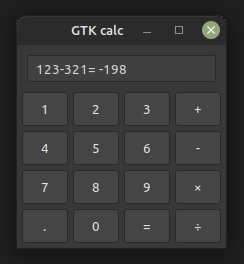
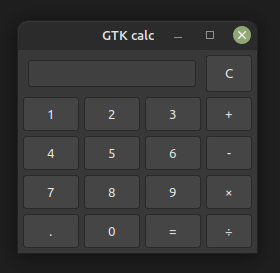
clear button

diff --git a/src/gui.rs b/src/gui.rs
@@ -41,7 +41,7 @@ pub fn build_ui(application: &gtk::Application) {
         .margin_end(margin)
         .margin_bottom(margin)
         .build();
-    grid.attach(&entry, 0, 0, 4 ,1);
+    grid.attach(&entry, 0, 0, 3 ,1);
 
     // --> CREATE NUM BUTTONS
     let button_1 = gtk::Button::with_label("1");
@@ -136,6 +136,7 @@ pub fn build_ui(application: &gtk::Application) {
     let div_button   = gtk::Button::with_label("\u{00F7}");
     let equals_bttn  = gtk::Button::with_label("=");
     let dot_button   = gtk::Button::with_label("."); // FIX IT
+    let clear_button = gtk::Button::with_label("C");
 
     // --> CONNECT FUNCTION TO OPERATOR
     plus_button.connect_clicked(clone!(
@@ -242,7 +243,8 @@ pub fn build_ui(application: &gtk::Application) {
         @strong value_1, @strong value_2, @strong num_counter, @strong entry =>
         move |_| {
             // Add the '.' to value
-            set_value(num_counter.get(), &value_1, &value_2, 0.0); // Turns '.' into 0. "0.05" would turn into 5, "1.01" - into 105
+            // !!! Turns '.' into 0. Example: "0.05" would turn into 5, "1.01" - into 105
+            set_value(num_counter.get(), &value_1, &value_2, 0.0);
             entry.insert_text(".", &mut -1); // Doesn't work yet
         }));
 
@@ -253,6 +255,7 @@ pub fn build_ui(application: &gtk::Application) {
     grid.attach(&div_button,   3, 4, 1, 1);
     grid.attach(&equals_bttn,  2, 4, 1, 1);
     grid.attach(&dot_button,   0, 4, 1, 1);
+    grid.attach(&clear_button, 3, 0, 1 ,1);
 
     window.show_all();
 }
@@ -278,7 +281,7 @@ pub fn operation(previous_operation: char, value_1: &Rc<Cell<f64>>, value_2: f64
 
 fn the_result(current_operation: char, value_1: &Rc<Cell<f64>>, value_2: f64) -> std::string::String {
     let mut result = String::from(" = ");
-
+    // Add operation symbol to variable
     let operation_symbol = match current_operation {
         ADD =>      "+",
         SUBTRACT => "-",

diff --git a/README.md b/README.md
@@ -2,6 +2,8 @@
 
 ![calculator_gtk](https://github.com/antonovmike/calculator_gtk/blob/main/calculator_gtk.gif)
 
+Add 'clear' button
+
 fix all buttons
 
 fix -*/ operators
